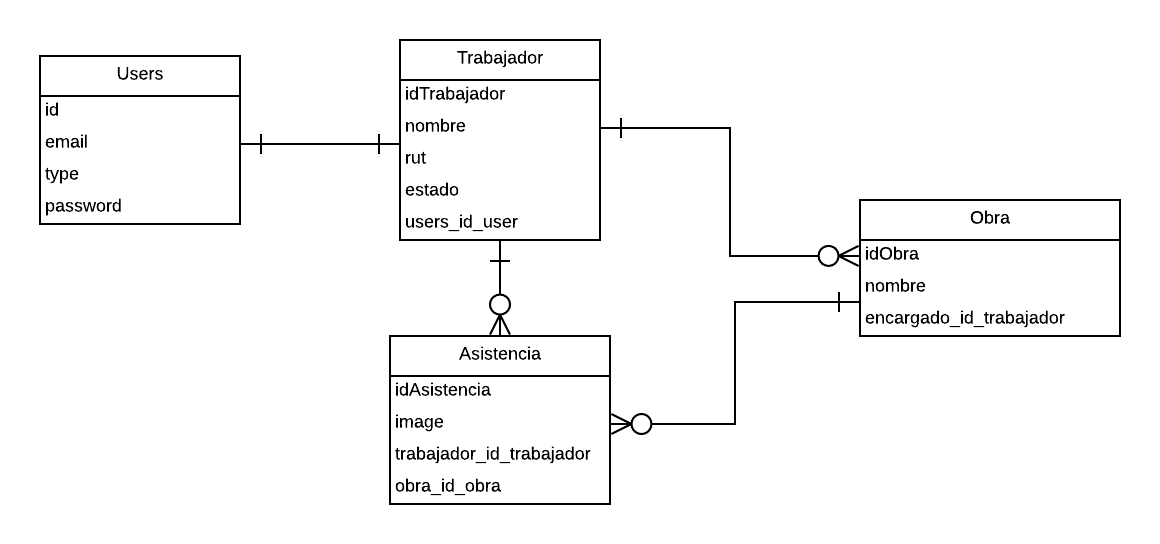
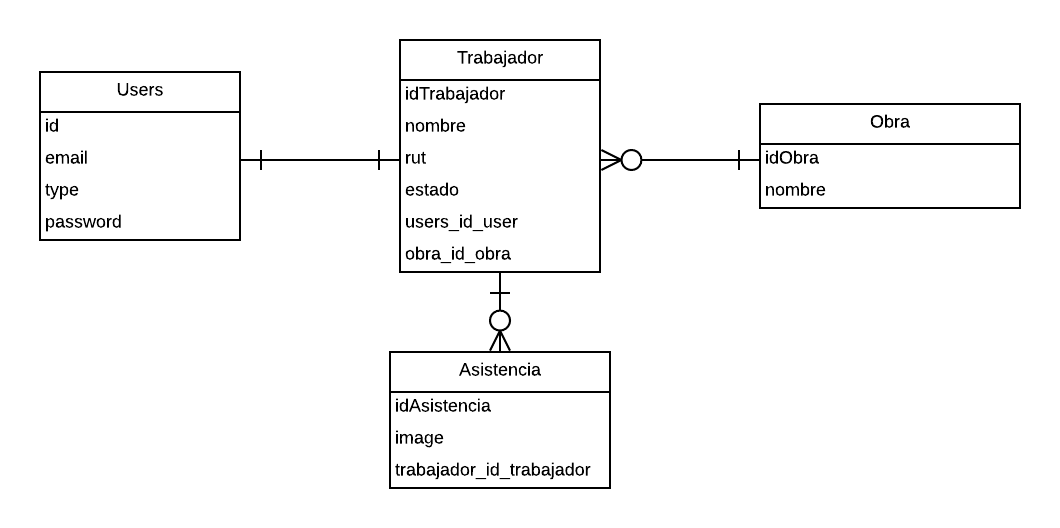
Arreglando todo, pendiente hacer agregar obra

diff --git a/asistencia/resources/views/administrador/menuAdministrador.blade.php b/asistencia/resources/views/administrador/menuAdministrador.blade.php
@@ -6,14 +6,14 @@
       <div class="col">
         <div class="card">
           <div class="card-header">
-            <h3 class="card-tittle">Administrar Obras Administrador</h3>
+            <h3 class="card-tittle">Administrar Obras</h3>
           </div>
           <div class="card-body">
             <div class="row">
               <div class="col">
                 <div class="card">
                   <div class="card-body container">
-                    @if(count($trabajador->obras) > 0)
+                    @if(count($obras) > 0)
                       <table id="tabla_obras" class="table display" style="width:100%">
                         <thead class="thead-dark">
                           <tr>
@@ -22,14 +22,17 @@
                           </tr>
                         </thead>
                         <tbody>
-                          @foreach ($trabajador->obras as $obra)
+                          @foreach ($obras as $obra)
                           <tr>
                             <td class="text-center">{{$obra->nombre}}</td>
                             <td class="text-center">
                               <div class="btn-group" role="group">
-                                <button class="btn btn-primary" data-toggle="tooltip" data-placement="top" title="Ver Asistencias"><i class="fas fa-users"></i></button>
-                                <button class="btn btn-success" data-toggle="tooltip" data-placement="top" title="Editar Obra"><i class="fas fa-edit"></i></button>
-                                <button class="btn btn-danger" data-toggle="tooltip" data-placement="top" title="Eliminar Obra"><i class="fas fa-trash"></i></button>
+                                <a href="{!! route('administrador.detallesObra', ['id'=>$obra->idObra]) !!}"
+                                   class="btn btn-primary text-light"
+                                   role="button" data-toggle="tooltip" data-placement="top"
+                                   title="Ver Detalles">
+                                   Ver Detalles
+                                 </a>
                               </div>
                             </td>
                           </tr>

diff --git a/asistencia/resources/views/layouts/navbar.blade.php b/asistencia/resources/views/layouts/navbar.blade.php
@@ -4,15 +4,10 @@
   <div id="app">
     <nav class="navbar sticky-top navbar-expand-md navbar-light navbar-laravel">
       <div class="container">
-        @guest
-          <a class="navbar-brand" href="{{ route('index') }}">
-              {{ config('app.name', 'Laravel') }}
-          </a>
-        @else
-          <a class="navbar-brand" href="{{ route('home') }}">
-              {{ config('app.name', 'Laravel') }}
-          </a>
-        @endguest
+
+        <a class="navbar-brand" href="{{ route('home') }}">
+            {{ config('app.name', 'Laravel') }}
+        </a>
 
         <button class="navbar-toggler" type="button" data-toggle="collapse" data-target="#navbarSupportedContent" aria-controls="navbarSupportedContent" aria-expanded="false" aria-label="{{ __('Toggle navigation') }}">
             <span class="navbar-toggler-icon"></span>
@@ -36,10 +31,13 @@
             @else
               <li class="nav-item dropdown">
                 <a id="navbarDropdown" class="nav-link dropdown-toggle" href="#" role="button" data-toggle="dropdown" aria-haspopup="true" aria-expanded="false" v-pre>
-                    {{ Auth::user()->name }} <span class="caret"></span>
+                    Menu <span class="caret"></span>
                 </a>
 
                 <div class="dropdown-menu dropdown-menu-right" aria-labelledby="navbarDropdown">
+                  @if (Auth::user()->isAdmin())
+                      <a href="{!! route('administrador.menuAdministrador') !!}" class="dropdown-item">Menu Administrador</a>
+                  @endif
                   <a class="dropdown-item" href="{{ route('logout') }}"
                      onclick="event.preventDefault();
                                    document.getElementById('logout-form').submit();">
@@ -64,6 +62,8 @@
     $(document).ready(function() {
       @if (session()->has('success'))
         showMensajeSwall(MSG_SUCCESS, "{{session()->get('success')}}");
+       @elseif (session()->has('error'))
+        showMensajeSwall(MSG_ERROR, "{{session()->get('error')}}");
        @endif
      });
      $(function () {

diff --git a/asistencia/app/Http/Controllers/ObraController.php b/asistencia/app/Http/Controllers/ObraController.php
@@ -23,7 +23,7 @@ class ObraController extends Controller
 
   public function agregarObra()
   {
-    $encargados = User::where('type', User::ADMIN_TYPE)->get();
+    $encargados = User::where('type', User::SUPERVISOR_TYPE)->get();
     return view('obra.agregarObra')->with('encargados', $encargados);
   }
 
@@ -31,9 +31,21 @@ class ObraController extends Controller
   {
     $trabajador = Trabajador::where('rut', $request->encargado)->first();
 
-    $obra = new Obra();
-    $obra->nombre = $request->name;
-    $trabajador->obras()->save($obra);
-    return redirect()->route('administrador.agregarObra')->with('success', 'Obra ' . $obra->nombre . ' registrada con éxito');
+    if($tabajador->obra != null)
+    {
+      $obra = new Obra();
+      $obra->nombre = $request->name;
+      $obra->save();
+
+      $obra->trabajadores()->save($trabajador);
+      return redirect()->route('administrador.agregarObra')->with('success', 'Obra ' . $obra->nombre . ' registrada con éxito');
+    }
+    return redirect()->route('administrador.agregarObra')->with('error', 'El encargado seleccionado ya posee una obra asignada');
+  }
+
+  public function detallesObra($id)
+  {
+    $obra = Obra::find($id);
+    return view('obra.detallesObra')->with('obra', $obra);
   }
 }

diff --git a/asistencia/resources/views/home.blade.php b/asistencia/resources/views/home.blade.php
@@ -5,10 +5,10 @@
   <div class="jumbotron">
 
     <div class="row">
-      <div class="col">
+      <div class="col-sm-5">
         <h1 class="display-4">Bienvenido</h1>
         <p class="lead">Si desea marcar asistencia ingrese un rut</p>
-        <form method="post" id="form_registrar_asistencia" action="{{route('registrarAsistencia')}}" enctype="multipart/form-data">
+        <form method="post" id="form_registrar_asistencia" action="{{route('registrarAsistencia')}}">
           <div class="form-group">
             @csrf
             <input class="form-control{{ $errors->has('rut') ? ' is-invalid' : '' }}" id="rut" type="text" name="rut" placeholder="Ingrese un rut" value="{{ old('rut') }}" required autofocus>
@@ -35,12 +35,6 @@
           <img id="img_show" width="100%" class="img-thumbnail" src="{{ Storage::disk('asistencia')->url('default.jpeg') }}"/>
         </div>
       </div>
-      @if(Auth::user()->isAdmin())
-        <div class="col">
-          <h2>Ingresar al menu del administrador</h2>
-          <a role="button" name="button" class="btn btn-success text-light" href='{!! route('administrador.menuAdministrador') !!}'>Menu Administrador</a>
-        </div>
-      @endif
     </div>
   </div>
 

diff --git a/asistencia/resources/views/obra/detallesObra.blade.php b/asistencia/resources/views/obra/detallesObra.blade.php
@@ -1,0 +1,27 @@
+@extends('layouts.navbar')
+
+@section('main')
+  <div class="container mt-2">
+    <div class="card">
+      <div class="card-header">
+        <h3 class="card-tittle">Administrar Obras</h3>
+      </div>
+      <div class="card-body">
+        <div class="form-group">
+          <label for="nombre">Nombre de la obra</label>
+          <input type="text" id='nombre' class="form-control" value="{{$obra->nombre}}" disabled>
+        </div>
+        <div class="form-group">
+          <label for="encargado">Encargado de la obra</label>
+          <input type="text" name="encargado" class="form-control" value="{{$obra->encargado->nombre}}" disabled>
+        </div>
+      </div>
+    </div>
+    <br>
+    <div class="card">
+      <div class="card-header">
+        <h3 class="card-tittle">Asistencia de la obra</h3>
+      </div>
+    </div>
+  </div>
+@endsection

diff --git a/asistencia/database/migrations/2019_01_06_014500_trabajador.php b/asistencia/database/migrations/2019_01_06_014500_trabajador.php
@@ -18,9 +18,11 @@ class Trabajador extends Migration
           $table->string('nombre');
           $table->string('rut')->unique();
           $table->boolean('estado')->default('true');
-          $table->timestamps();
           $table->integer('users_id_user')->unsigned();
           $table->foreign('users_id_user')->references('id')->on('users')->onDelete('cascade');
+          $table->integer('obra_id_obra')->unsigned()->nullable();
+          $table->foreign('obra_id_obra')->references('idObra')->on('obra');
+          $table->timestamps();
       });
   }
 

diff --git a/asistencia/app/Http/Controllers/AsistenciaController.php b/asistencia/app/Http/Controllers/AsistenciaController.php
@@ -4,7 +4,7 @@ namespace Asistencia\Http\Controllers;
 
 use Freshwork\ChileanBundle\Rut;
 
-use Asistencia\Trabajador;
+use Asistencia\Obra;
 use Asistencia\Asistencia;
 use Illuminate\Http\Request;
 use Asistencia\Http\Requests\MarcarAsistencia;
@@ -58,6 +58,6 @@ class AsistenciaController extends Controller
 
   public function menuAdministrador()
   {
-    return view('administrador.menuAdministrador')->with('trabajador', Auth::user()->trabajador);
+    return view('administrador.menuAdministrador')->with('obras', Obra::all());
   }
 }

diff --git a/asistencia/database/migrations/2019_01_06_014746_asistencia.php b/asistencia/database/migrations/2019_01_06_014746_asistencia.php
@@ -18,8 +18,6 @@ class Asistencia extends Migration
           $table->string('image')->nullable();
           $table->integer('trabajador_id_trabajador')->unsigned();
           $table->foreign('trabajador_id_trabajador')->references('idTrabajador')->on('trabajador')->onDelete('cascade');
-          $table->integer('obra_id_obra')->unsigned();
-          $table->foreign('obra_id_obra')->references('idObra')->on('obra')->onDelete('cascade');
           $table->timestamps();
       });
   }

diff --git a/asistencia/app/User.php b/asistencia/app/User.php
@@ -10,6 +10,7 @@ class User extends Authenticatable
 {
   const ADMIN_TYPE = 'Admin';
   const DEFAULT_TYPE = 'Trabajador';
+  const SUPERVISOR_TYPE = 'Supervisor';
 
   public function trabajador()
   {
@@ -19,6 +20,11 @@ class User extends Authenticatable
   public function isAdmin()
   {
       return $this->type === self::ADMIN_TYPE;
+  }
+
+  public function isSupervisor()
+  {
+    return $this->type === self::SUPERVISOR_TYPE;
   }
 
   public function isTrabajador()

diff --git a/asistencia/app/Http/Middleware/isSupervisor.php b/asistencia/app/Http/Middleware/isSupervisor.php
@@ -1,0 +1,23 @@
+<?php
+
+namespace Asistencia\Http\Middleware;
+
+use Closure;
+
+class isSupervisor
+{
+    /**
+     * Handle an incoming request.
+     *
+     * @param  \Illuminate\Http\Request  $request
+     * @param  \Closure  $next
+     * @return mixed
+     */
+     public function handle($request, Closure $next)
+     {
+         if(auth()->user()->isSupervisor()) {
+             return $next($request);
+         }
+         return redirect('home');
+     }
+}

diff --git a/asistencia/routes/web.php b/asistencia/routes/web.php
@@ -40,6 +40,10 @@ Route::get('/menuAdministrador', 'AsistenciaController@menuAdministrador')
   ->name('administrador.menuAdministrador')
   ->middleware('is_admin');
 
+Route::get('/menuAdministrador/detallesObra/{id}', ['uses'=>'ObraController@detallesObra'])
+  ->name('administrador.detallesObra')
+  ->middleware('is_admin');
+
 Route::get('/menuAdministrador/agregarObra', 'ObraController@agregarObra')
   ->name('administrador.agregarObra')
   ->middleware('is_admin');

diff --git a/asistencia/app/Obra.php b/asistencia/app/Obra.php
@@ -9,13 +9,8 @@ class Obra extends Model
     public $primaryKey = 'idObra';
     protected $table = 'obra';
 
-    public function encargado()
+    public function trabajadores()
     {
-      return $this->belongsTo('Asistencia\Trabajador', 'encargado_id_encargado');
-    }
-
-    public function asistencias()
-    {
-      return $this->hasMany('Asistencia\Asistencia', 'obra_id_obra');
+      return $this->hasMany('Asistencia\Trabajador', 'obra_id_obra');
     }
 }
